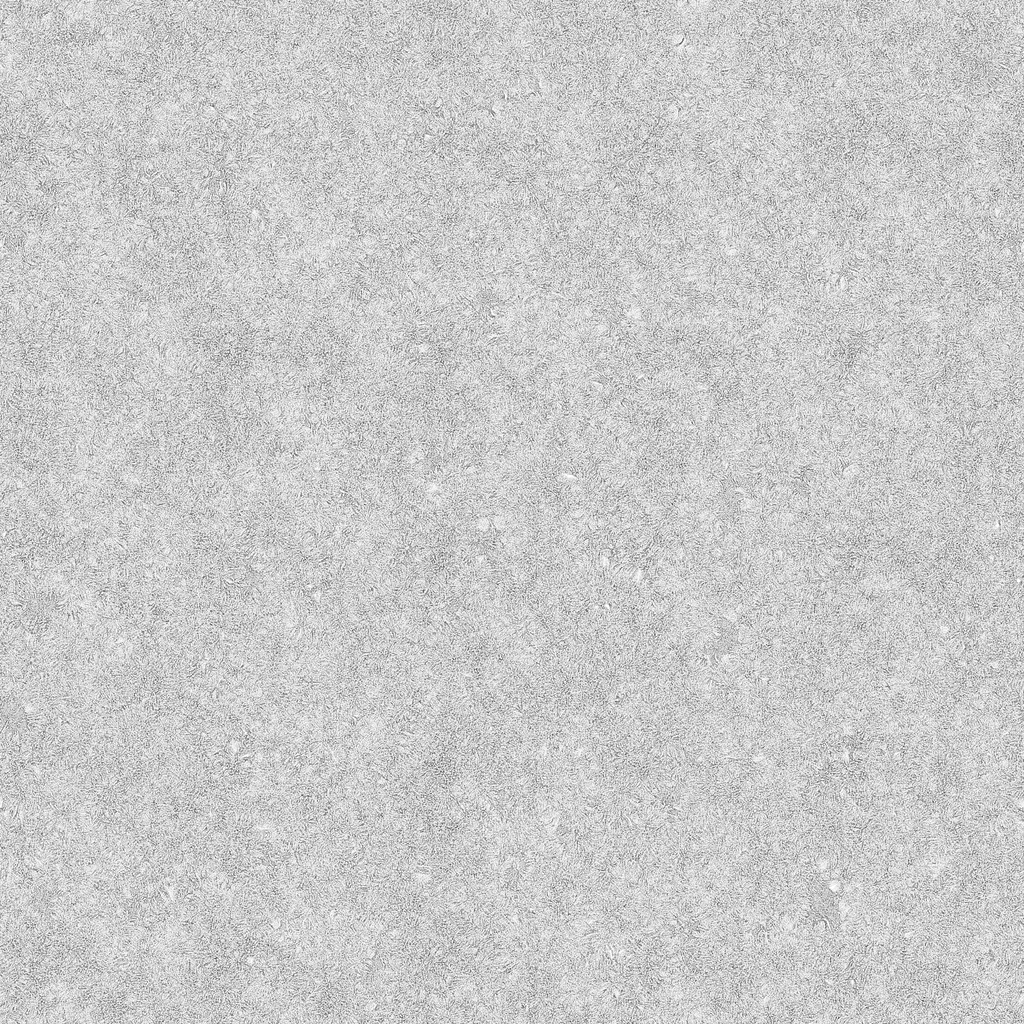
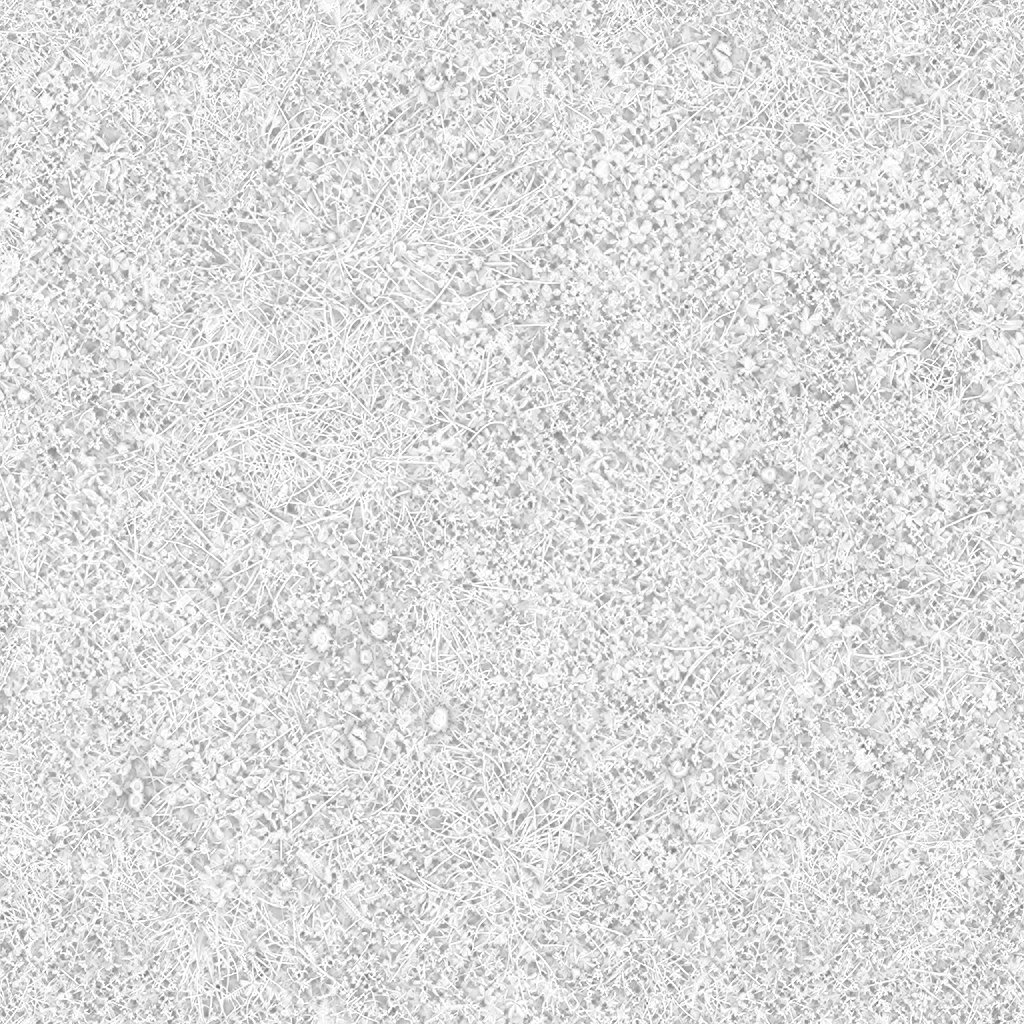
normals pass culling and grass material

diff --git a/README.md b/README.md
@@ -2,8 +2,6 @@
 
 ## Importante
 
-- Colocar a tesselacao a zero quando nao se ve o triangulo (talvez funcione com VFC de AABB's)
-
 - Blending de texturas (altura / e no mesmo)
 
 - Adaptar o blending de texturas e triplanar blend para funcionar com os materiais
